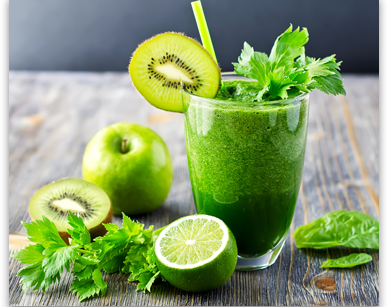
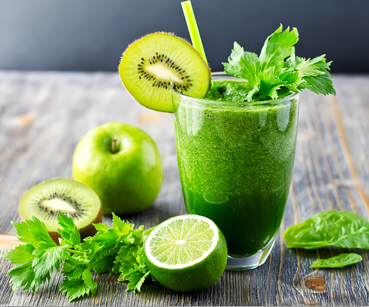
second commit

diff --git a/css/style.css b/css/style.css
@@ -53,6 +53,7 @@ p.text {
     background-image: url(../img/img.png);
     position: relative;
     background-size: cover;
+    box-shadow: 0 5px 10px rgb(51,51,51);
 
 
    
@@ -90,6 +91,10 @@ p.text {
     height:310px;
     transform: translate(404px, -310px);
     background-image: url(../img/img2.png);
+    background-repeat: no-repeat;
+    background-size: cover;
+    box-shadow: 0 5px 10px rgb(51,51,51);
+    
 
 }
 
@@ -98,6 +103,9 @@ p.text {
     height:310px;
     transform: translate(800px, -620px);
     background-image: url(../img/img3.png);
+    background-repeat: no-repeat;
+    background-size: cover;
+    box-shadow: 0 5px 10px rgb(51,51,51);
 
 }
 
